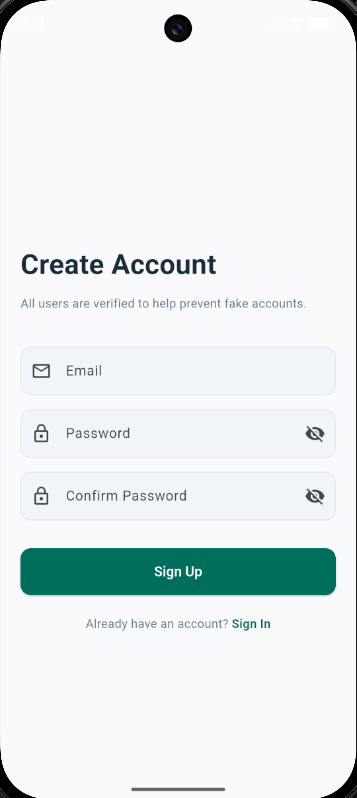
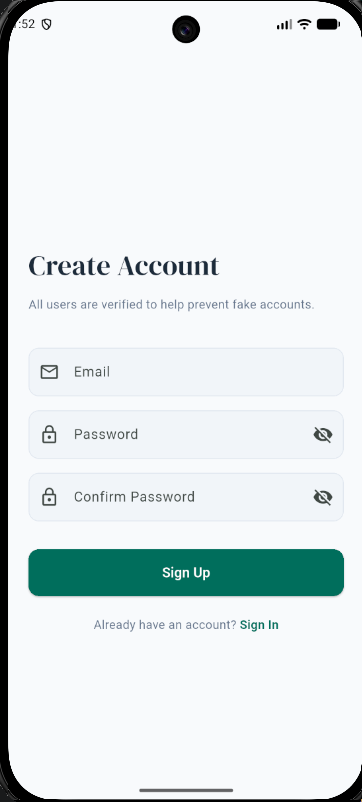
readme

diff --git a/lib/features/auth/presentation/screens/login_screen.dart b/lib/features/auth/presentation/screens/login_screen.dart
@@ -1,5 +1,6 @@
 import 'package:flutter/material.dart';
 import 'package:flutter_bloc/flutter_bloc.dart';
+import 'package:google_fonts/google_fonts.dart';
 
 import '../../../../core/theme/app_theme.dart';
 import '../../bloc/auth_bloc.dart';
@@ -79,31 +80,28 @@ class _LoginScreenState extends State<LoginScreen> {
                   children: [
                     const SizedBox(height: 60),
                     // Welcome header
-                    const Text(
+                    Text(
                       'Welcome',
-                      style: TextStyle(
+                      style: GoogleFonts.dmSerifDisplay(
                         fontSize: 32,
-                        fontWeight: FontWeight.bold,
                         color: AppColors.textPrimary,
                       ),
                     ),
                     const SizedBox(height: 4),
                     RichText(
-                      text: const TextSpan(
+                      text: TextSpan(
                         children: [
                           TextSpan(
                             text: 'to ',
-                            style: TextStyle(
+                            style: GoogleFonts.dmSerifDisplay(
                               fontSize: 32,
-                              fontWeight: FontWeight.bold,
                               color: AppColors.textPrimary,
                             ),
                           ),
                           TextSpan(
                             text: 'Profile App',
-                            style: TextStyle(
+                            style: GoogleFonts.dmSerifDisplay(
                               fontSize: 32,
-                              fontWeight: FontWeight.bold,
                               color: AppColors.primary,
                             ),
                           ),

diff --git a/lib/features/profile/presentation/screens/profile_details_screen.dart b/lib/features/profile/presentation/screens/profile_details_screen.dart
@@ -1,6 +1,7 @@
 import 'package:flutter/material.dart';
 import 'package:cloud_firestore/cloud_firestore.dart';
 import 'package:firebase_auth/firebase_auth.dart';
+import 'package:google_fonts/google_fonts.dart';
 
 import '../../../../core/theme/app_theme.dart';
 import '../../../auth/data/models/user_model.dart';
@@ -181,7 +182,11 @@ class _ProfileDetailsScreenState extends State<ProfileDetailsScreen> {
   @override
   Widget build(BuildContext context) {
     return Scaffold(
-      appBar: AppBar(),
+      appBar: AppBar(
+        backgroundColor: AppColors.background,
+        elevation: 0,
+        iconTheme: const IconThemeData(color: AppColors.textPrimary),
+      ),
       body: SingleChildScrollView(
         padding: const EdgeInsets.all(24),
         child: Form(
@@ -189,11 +194,10 @@ class _ProfileDetailsScreenState extends State<ProfileDetailsScreen> {
           child: Column(
             crossAxisAlignment: CrossAxisAlignment.start,
             children: [
-              const Text(
+              Text(
                 'Create Your Profile',
-                style: TextStyle(
+                style: GoogleFonts.dmSerifDisplay(
                   fontSize: 28,
-                  fontWeight: FontWeight.bold,
                   color: AppColors.textPrimary,
                 ),
               ),

diff --git a/lib/features/auth/presentation/screens/signup_screen.dart b/lib/features/auth/presentation/screens/signup_screen.dart
@@ -1,5 +1,6 @@
 import 'package:flutter/material.dart';
 import 'package:flutter_bloc/flutter_bloc.dart';
+import 'package:google_fonts/google_fonts.dart';
 
 import '../../../../core/theme/app_theme.dart';
 import '../../bloc/auth_bloc.dart';
@@ -68,11 +69,10 @@ class _SignupScreenState extends State<SignupScreen> {
                   crossAxisAlignment: CrossAxisAlignment.start,
                   children: [
                     const SizedBox(height: 60),
-                    const Text(
+                    Text(
                       'Create Account',
-                      style: TextStyle(
+                      style: GoogleFonts.dmSerifDisplay(
                         fontSize: 32,
-                        fontWeight: FontWeight.bold,
                         color: AppColors.textPrimary,
                       ),
                     ),

diff --git a/lib/features/auth/presentation/widgets/auth_header.dart b/lib/features/auth/presentation/widgets/auth_header.dart
@@ -1,4 +1,5 @@
 import 'package:flutter/material.dart';
+import 'package:google_fonts/google_fonts.dart';
 
 import '../../../../core/theme/app_theme.dart';
 
@@ -34,9 +35,8 @@ class AuthHeader extends StatelessWidget {
         const SizedBox(height: 24),
         Text(
           title,
-          style: const TextStyle(
+          style: GoogleFonts.dmSerifDisplay(
             fontSize: 28,
-            fontWeight: FontWeight.bold,
             color: AppColors.textPrimary,
           ),
         ),